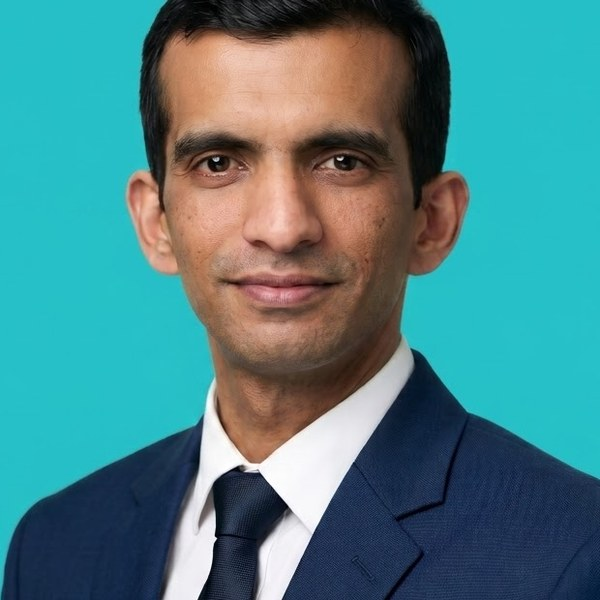
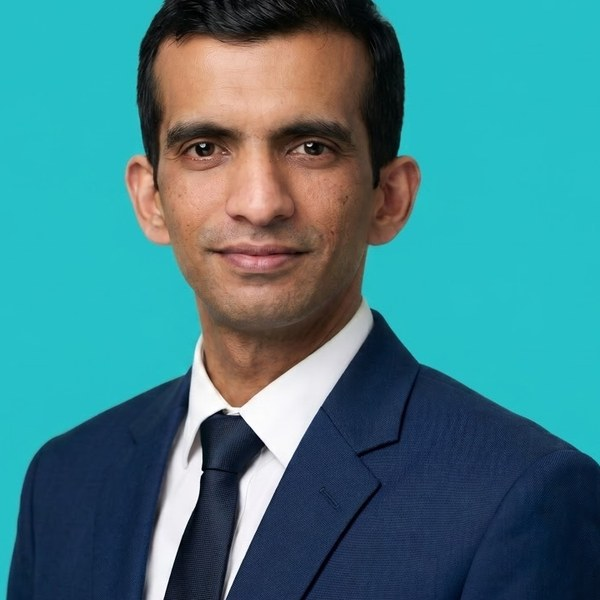
Orbital keeps spinning, bolder core, stats under Selected work, fix Asad crop
- Orbital: remove pause-on-hover so the graph keeps rotating; make the
  "glintvex" core bolder (800) with a cyan border + glow for contrast.
- Work: add a "Book a demo" button at the right corner of the heading, and
  move the stats (systems shipped, uptime, etc.) into a compact row beneath
  the heading; remove the old full-width stats band.
- Team: re-crop Asad's headshot wider so it matches Saim and Usman.

diff --git a/css/styles.css b/css/styles.css
@@ -216,8 +216,6 @@ a { color: inherit; text-decoration: none; }
 /* ---- interactive tech-stack orbital ---- */
 .orbital { position: relative; width: 100%; max-width: 480px; margin-inline: auto; aspect-ratio: 1; }
 .orbital-rotor { position: absolute; inset: 0; animation: orbit-spin 64s linear infinite; }
-.orbital:hover .orbital-rotor,
-.orbital:hover .orbital-node-inner { animation-play-state: paused; }
 .orbital svg { position: absolute; inset: 0; width: 100%; height: 100%; overflow: visible; }
 .orbital-ring { fill: none; stroke: rgba(255,255,255,0.1); stroke-dasharray: 2 7; }
 .orbital-flow { fill: none; stroke: var(--cyan); stroke-opacity: 0.24; stroke-width: 1.2; stroke-linecap: round; transition: stroke-opacity 0.22s ease, stroke-width 0.22s ease, stroke 0.22s ease; }
@@ -237,13 +235,13 @@ a { color: inherit; text-decoration: none; }
 .orbital-node.is-hot .orbital-pill { transform: translateY(-2px) scale(1.07); border-color: var(--horizon-2); color: #fff; box-shadow: 0 16px 32px -12px rgba(62,136,255,0.7); }
 .orbital-core {
   position: absolute; left: 50%; top: 50%; transform: translate(-50%, -50%); z-index: 3;
-  width: clamp(78px, 20%, 104px); aspect-ratio: 1; border-radius: 50%;
+  width: clamp(82px, 21%, 110px); aspect-ratio: 1; border-radius: 50%;
   display: grid; place-items: center; text-align: center;
-  background: radial-gradient(circle at 32% 26%, #15514d 0%, #0c3432 46%, #071514 100%);
-  border: 1px solid var(--line-strong);
-  box-shadow: 0 0 0 1px rgba(62,136,255,0.18), 0 20px 44px -16px rgba(0,0,0,0.9), inset 0 1px 0 rgba(255,255,255,0.08);
+  background: radial-gradient(circle at 32% 26%, #1f7d74 0%, #0e3e3b 46%, #06100f 100%);
+  border: 1px solid rgba(46,230,214,0.5);
+  box-shadow: 0 0 0 1px rgba(46,230,214,0.25), 0 0 38px -4px rgba(46,230,214,0.4), 0 20px 44px -14px rgba(0,0,0,0.9), inset 0 1px 0 rgba(255,255,255,0.12);
 }
-.orbital-core span { font-weight: 700; font-size: clamp(0.85rem, 2.2vw, 1.05rem); color: var(--white); letter-spacing: -0.01em; }
+.orbital-core span { font-weight: 800; font-size: clamp(0.9rem, 2.3vw, 1.12rem); color: #ffffff; letter-spacing: -0.01em; text-shadow: 0 1px 10px rgba(46,230,214,0.35); }
 .orbital-core::after { content: ""; position: absolute; inset: -9px; border-radius: 50%; border: 1px dashed rgba(255,255,255,0.12); animation: orbit-spin 26s linear infinite; }
 @keyframes orbit-spin { to { transform: rotate(360deg); } }
 
@@ -282,13 +280,6 @@ a { color: inherit; text-decoration: none; }
 .cap-card h3 { margin-top: 26px; font-size: 1.25rem; font-weight: 700; color: var(--white); }
 .cap-card p { margin-top: 12px; color: var(--text-dim); font-size: 0.95rem; }
 
-/* ---- stats ---- */
-.stats-band { border-top: 1px solid var(--line); background: linear-gradient(180deg, rgba(12,52,50,0.28), transparent); }
-.stats-grid { display: grid; grid-template-columns: repeat(4, 1fr); gap: 1px; background: var(--line); }
-.stat { padding: clamp(40px, 6vw, 64px) 20px; text-align: center; background: var(--ink); }
-.stat-num { display: block; font-size: clamp(2.2rem, 5vw, 3.4rem); font-weight: 700; color: var(--white); letter-spacing: -0.02em; font-variant-numeric: tabular-nums; }
-.stat-label { display: block; margin-top: 8px; color: var(--text-dim); font-size: 0.9rem; }
-
 /* ---- work ---- */
 .work-grid { display: flex; gap: 20px; overflow-x: auto; scroll-snap-type: x mandatory; padding-bottom: 14px; scrollbar-width: thin; scrollbar-color: rgba(62,136,255,0.5) transparent; }
 .work-grid::-webkit-scrollbar { height: 8px; }
@@ -311,6 +302,13 @@ a { color: inherit; text-decoration: none; }
 .work-thumb--placeholder { display: flex; align-items: center; justify-content: center; background: linear-gradient(135deg, rgba(62,136,255,0.14), rgba(12,52,50,0.25)); }
 .work-thumb--placeholder span { font-size: 0.74rem; letter-spacing: 0.12em; text-transform: uppercase; color: var(--text-dim); }
 .work-card .work-quote { margin-top: 16px; font-size: 0.84rem; font-style: italic; color: var(--text-faint); flex: none; }
+.work-head { display: flex; justify-content: space-between; align-items: flex-start; gap: 24px; flex-wrap: wrap; max-width: none; }
+.work-head-main { max-width: 620px; }
+.work-head-cta { flex-shrink: 0; }
+.work-stats { list-style: none; display: flex; flex-wrap: wrap; gap: 14px 30px; margin-top: 22px; }
+.work-stats li { display: flex; flex-direction: column; gap: 3px; }
+.work-stats strong { font-size: 1.35rem; font-weight: 700; color: var(--white); font-variant-numeric: tabular-nums; letter-spacing: -0.01em; line-height: 1; }
+.work-stats span { font-size: 0.72rem; color: var(--text-faint); text-transform: uppercase; letter-spacing: 0.06em; }
 
 /* ---- team ---- */
 .team-grid { display: grid; grid-template-columns: repeat(3, 1fr); gap: 20px; }
@@ -491,7 +489,6 @@ a { color: inherit; text-decoration: none; }
   .hero-panel { order: 2; }
   .cap-grid { grid-template-columns: repeat(2, 1fr); }
   .work-grid > .work-card { flex-basis: calc((100% - 20px) / 2); }
-  .stats-grid { grid-template-columns: repeat(2, 1fr); }
   .footer-top { grid-template-columns: 1fr 1fr; }
   .team-grid { grid-template-columns: repeat(3, 1fr); gap: 14px; }
   .funnel { grid-template-columns: 1fr; }
@@ -504,7 +501,7 @@ a { color: inherit; text-decoration: none; }
   .header-actions .btn-primary { display: none; }
   .brand-lockup { display: none; }
   .brand-mark { display: block; }
-  .team-grid, .cap-grid, .stats-grid, .footer-top { grid-template-columns: 1fr; }
+  .team-grid, .cap-grid, .footer-top { grid-template-columns: 1fr; }
   .work-grid > .work-card { flex-basis: 84%; }
   .book-fields { grid-template-columns: 1fr; }
   .slots-grid { grid-template-columns: repeat(2, 1fr); }

diff --git a/index.html b/index.html
@@ -133,22 +133,21 @@
       </div>
     </section>
 
-    <!-- ============ STATS ============ -->
-    <section class="stats-band">
-      <div class="container stats-grid">
-        <div class="stat reveal"><span class="stat-num" data-count="40" data-suffix="+">0</span><span class="stat-label">Systems shipped</span></div>
-        <div class="stat reveal" data-delay="80"><span class="stat-num" data-count="99.9" data-suffix="%" data-decimals="1">0</span><span class="stat-label">Uptime target</span></div>
-        <div class="stat reveal" data-delay="160"><span class="stat-num" data-count="8" data-suffix="+">0</span><span class="stat-label">Years avg. experience</span></div>
-        <div class="stat reveal" data-delay="240"><span class="stat-num" data-count="3" data-suffix="" data-prefix="&lt;">0</span><span class="stat-label">Weeks to first release</span></div>
-      </div>
-    </section>
-
     <!-- ============ WORK ============ -->
     <section class="section" id="work">
       <div class="container">
-        <div class="section-head reveal">
-          <h2 class="section-title">Selected work</h2>
-          <p class="section-lede">Recent systems we've shipped, end to end.</p>
+        <div class="section-head reveal work-head">
+          <div class="work-head-main">
+            <h2 class="section-title">Selected work</h2>
+            <p class="section-lede">Recent systems we've shipped, end to end.</p>
+            <ul class="work-stats">
+              <li><strong data-count="40" data-suffix="+">0</strong><span>Systems shipped</span></li>
+              <li><strong data-count="99.9" data-suffix="%" data-decimals="1">0</strong><span>Uptime target</span></li>
+              <li><strong data-count="8" data-suffix="+">0</strong><span>Years avg. experience</span></li>
+              <li><strong data-count="3" data-prefix="&lt;">0</strong><span>Weeks to first release</span></li>
+            </ul>
+          </div>
+          <a href="#contact" class="btn btn-primary work-head-cta">Book a demo</a>
         </div>
 
         <div class="work-rail">